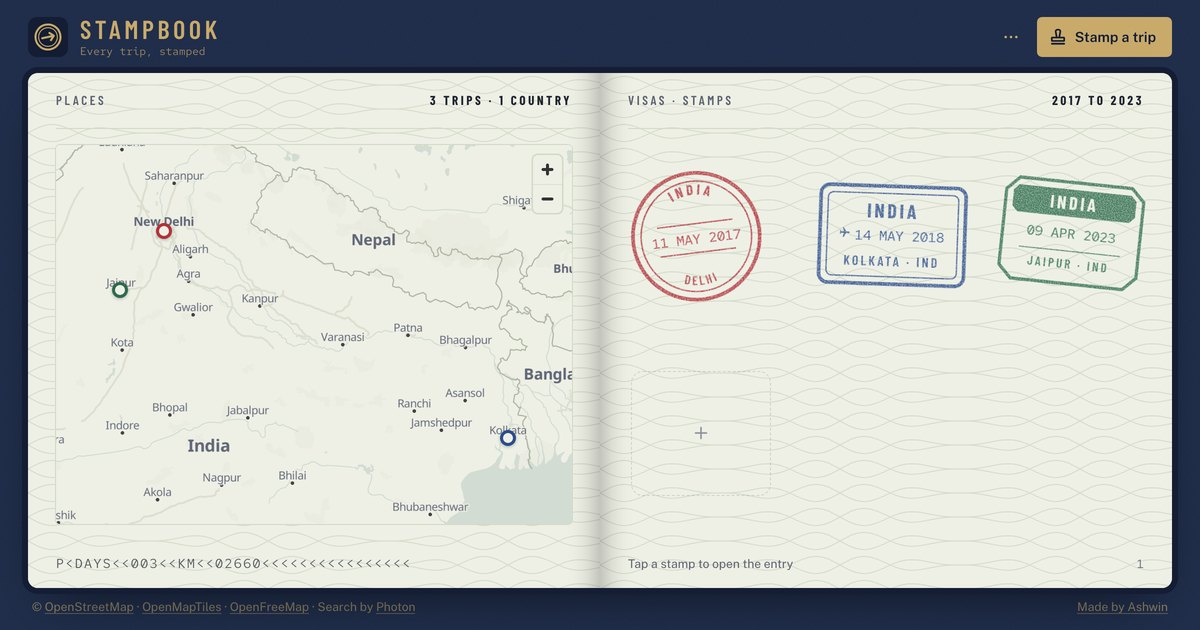
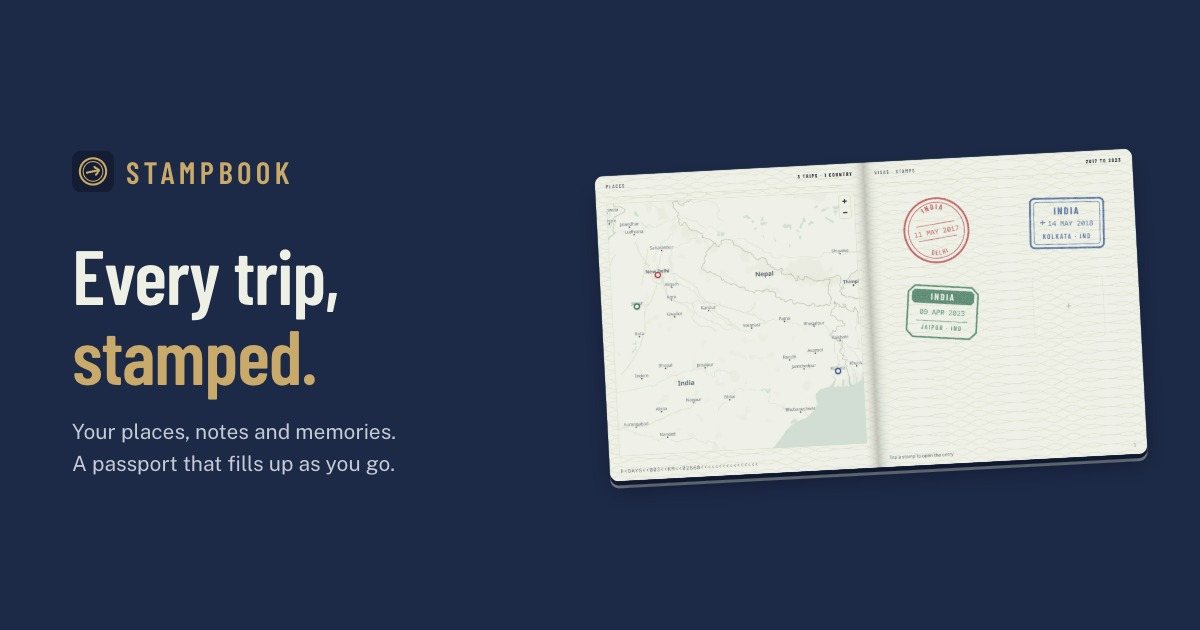
fix: refresh project OG card and cache version

diff --git a/docs/og.html b/docs/og.html
@@ -1,0 +1,23 @@
+<!doctype html>
+<html lang="en">
+<head>
+  <meta charset="utf-8">
+  <meta name="viewport" content="width=1200">
+  <title>STAMPBOOK · Share image</title>
+  <style>
+@font-face{font-family:"Public Sans";src:url("../public/fonts/public-sans-latin.woff2") format("woff2");font-style:normal;font-weight:100 900;font-display:block}@font-face{font-family:"Barlow";src:url("../public/fonts/barlow-condensed-600.woff2") format("woff2");font-style:normal;font-weight:600;font-display:block}@font-face{font-family:"Red Hat";src:url("../public/fonts/red-hat-mono-latin.woff2") format("woff2");font-style:normal;font-weight:300 700;font-display:block}
+*{box-sizing:border-box}html,body{margin:0;width:1200px;height:630px;overflow:hidden}body{font-synthesis:none;-webkit-font-smoothing:antialiased}main{position:relative;width:1200px;height:630px}.copy{position:absolute;left:72px;top:50%;transform:translateY(-50%);width:485px}.brand{display:flex;align-items:center;gap:12px;font-size:26px;font-weight:700}.brand img{width:42px;height:42px;flex:none}h1{margin:42px 0 22px;font-size:54px;line-height:1.08;letter-spacing:-.045em;font-weight:700}p{margin:0;font-size:21px;line-height:1.5}.visual{position:absolute;left:620px;top:50%;transform:translateY(-50%);width:508px}.accent{color:var(--accent)}
+body{font-family:"Public Sans",sans-serif;background:#1d2a47;color:#eef0e6;--accent:#c9aa6b}.brand{font-family:Barlow,sans-serif;font-weight:600;font-size:31px;letter-spacing:.14em;color:#c9aa6b}h1{font-family:Barlow,sans-serif;font-weight:600;font-size:77px;letter-spacing:-.015em;line-height:1.04}p{color:#c4cbd7}.visual{left:602px;width:538px;height:306px;transform:translateY(-50%) rotate(-3deg);border-radius:9px;box-shadow:0 12px 22px #0a122a88,0 4px 0 #141d33,0 7px 0 #d3dac799;overflow:hidden}.passport{position:absolute;width:560px;max-width:none;left:-11px;top:-28px}
+  </style>
+</head>
+<body>
+  <main>
+    <div class="copy">
+      <div class="brand"><img src="../public/icon.svg" alt="">STAMPBOOK</div>
+      <h1>Every trip,<br><span class="accent">stamped.</span></h1>
+      <p>Your places, notes and memories.<br>A passport that fills up as you go.</p>
+    </div>
+    <div class="visual"><img class="passport" src="screenshots/Stampbook.webp" alt="An open passport with a map and stamps for Delhi, Kolkata and Jaipur"></div>
+  </main>
+</body>
+</html>

diff --git a/index.html b/index.html
@@ -12,14 +12,15 @@
     <meta property="og:title" content="Stampbook · Every trip, stamped" />
     <meta property="og:description" content="Log a trip and it gets stamped into your passport, with your notes, photos and a map of everywhere you've been." />
     <meta property="og:url" content="https://stampbook.ashwin.co.in/" />
-    <meta property="og:image" content="https://stampbook.ashwin.co.in/og.jpg" />
+    <meta property="og:image" content="https://stampbook.ashwin.co.in/og.jpg?v=2" />
+    <meta property="og:image:type" content="image/jpeg" />
     <meta property="og:image:width" content="1200" />
     <meta property="og:image:height" content="630" />
     <meta property="og:image:alt" content="Stampbook: an open passport with a map of trips on one page and ink stamps on the other" />
     <meta name="twitter:card" content="summary_large_image" />
     <meta name="twitter:title" content="Stampbook · Every trip, stamped" />
     <meta name="twitter:description" content="Log a trip and it gets stamped into your passport, with your notes, photos and a map of everywhere you've been." />
-    <meta name="twitter:image" content="https://stampbook.ashwin.co.in/og.jpg" />
+    <meta name="twitter:image" content="https://stampbook.ashwin.co.in/og.jpg?v=2" />
     <script>
       const query = new URLSearchParams(location.search);
       document.documentElement.dataset.shell =

diff --git a/docs/render-og.py b/docs/render-og.py
@@ -1,0 +1,27 @@
+from pathlib import Path
+from playwright.sync_api import sync_playwright
+
+root = Path(__file__).resolve().parent.parent
+output = (root / "public" if (root / "public").is_dir() else root) / "og.jpg"
+
+with sync_playwright() as playwright:
+    try:
+        browser = playwright.chromium.launch(channel="chrome", headless=True)
+    except Exception:
+        browser = playwright.chromium.launch(headless=True)
+    page = browser.new_page(viewport={"width": 1200, "height": 630}, device_scale_factor=1)
+    errors = []
+    page.on("pageerror", lambda error: errors.append(str(error)))
+    page.goto((root / "docs" / "og.html").as_uri(), wait_until="networkidle")
+    page.evaluate("document.fonts.ready")
+    page.evaluate("""async () => {
+        await Promise.all([...document.images].map(image => image.decode()));
+        if ([...document.fonts].some(font => font.status === 'error')) {
+            throw new Error('A share-card font failed to load');
+        }
+    }""")
+    if errors:
+        raise RuntimeError("\n".join(errors))
+    page.screenshot(path=str(output), type="jpeg", quality=92)
+    browser.close()
+print(f"Rendered {output} (1200 × 630)")
